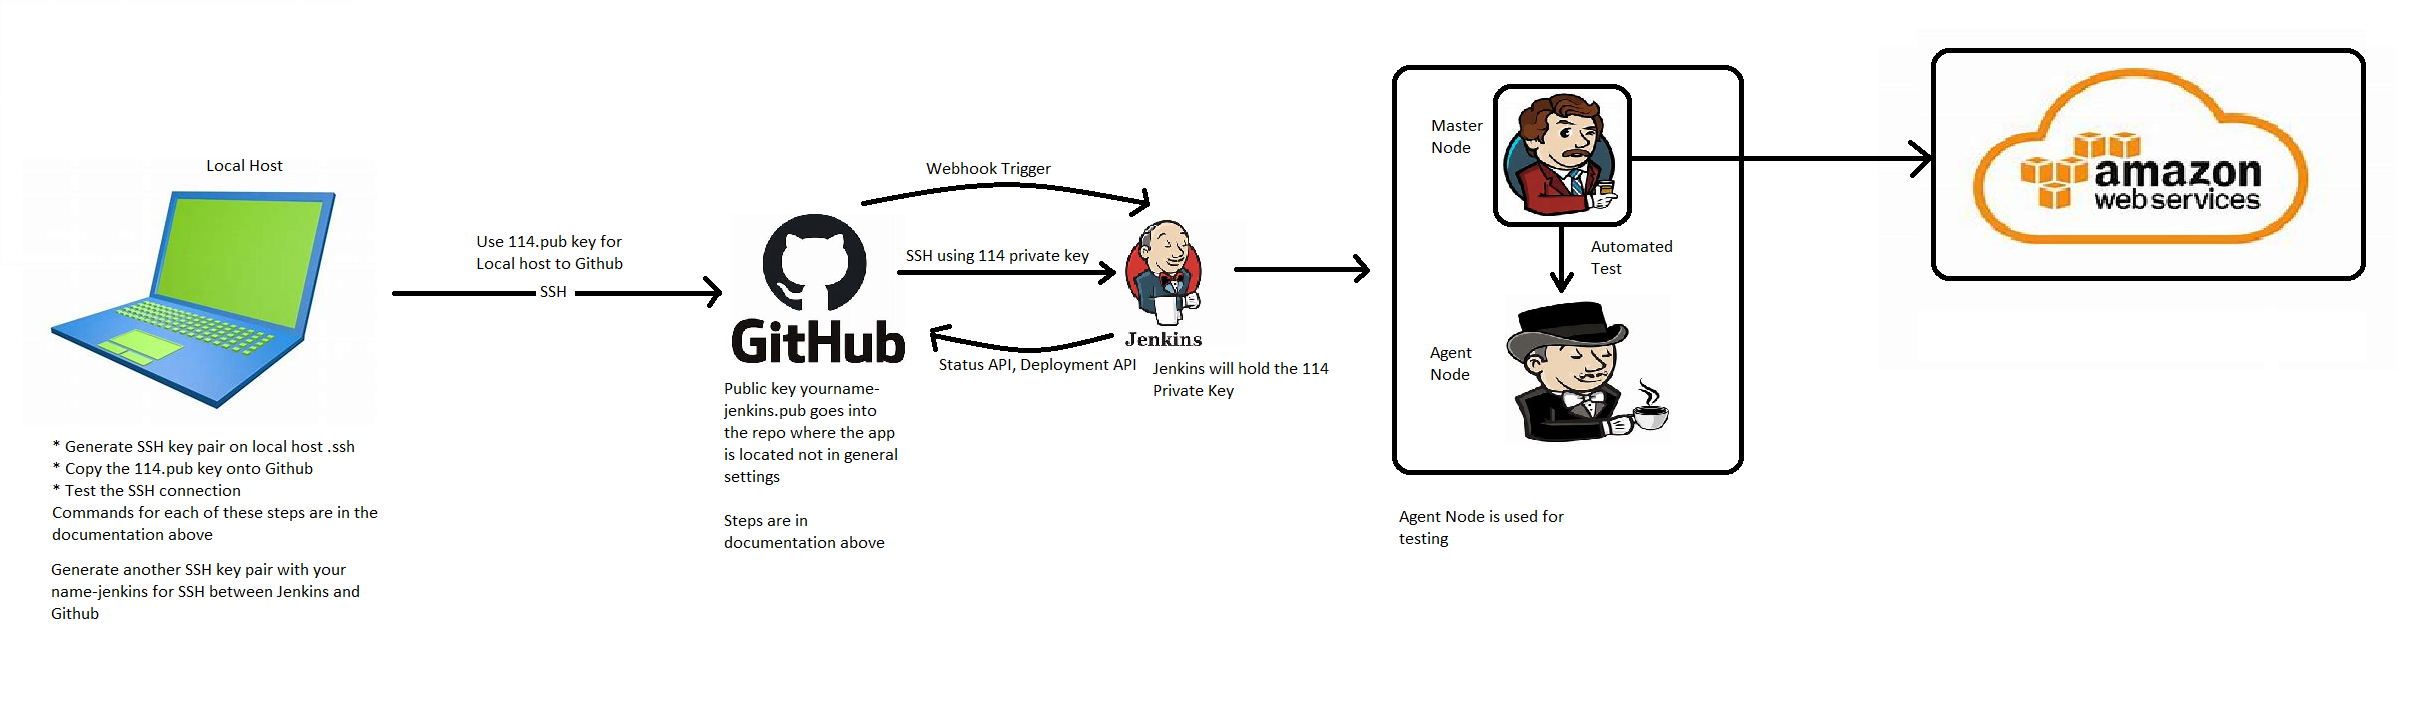
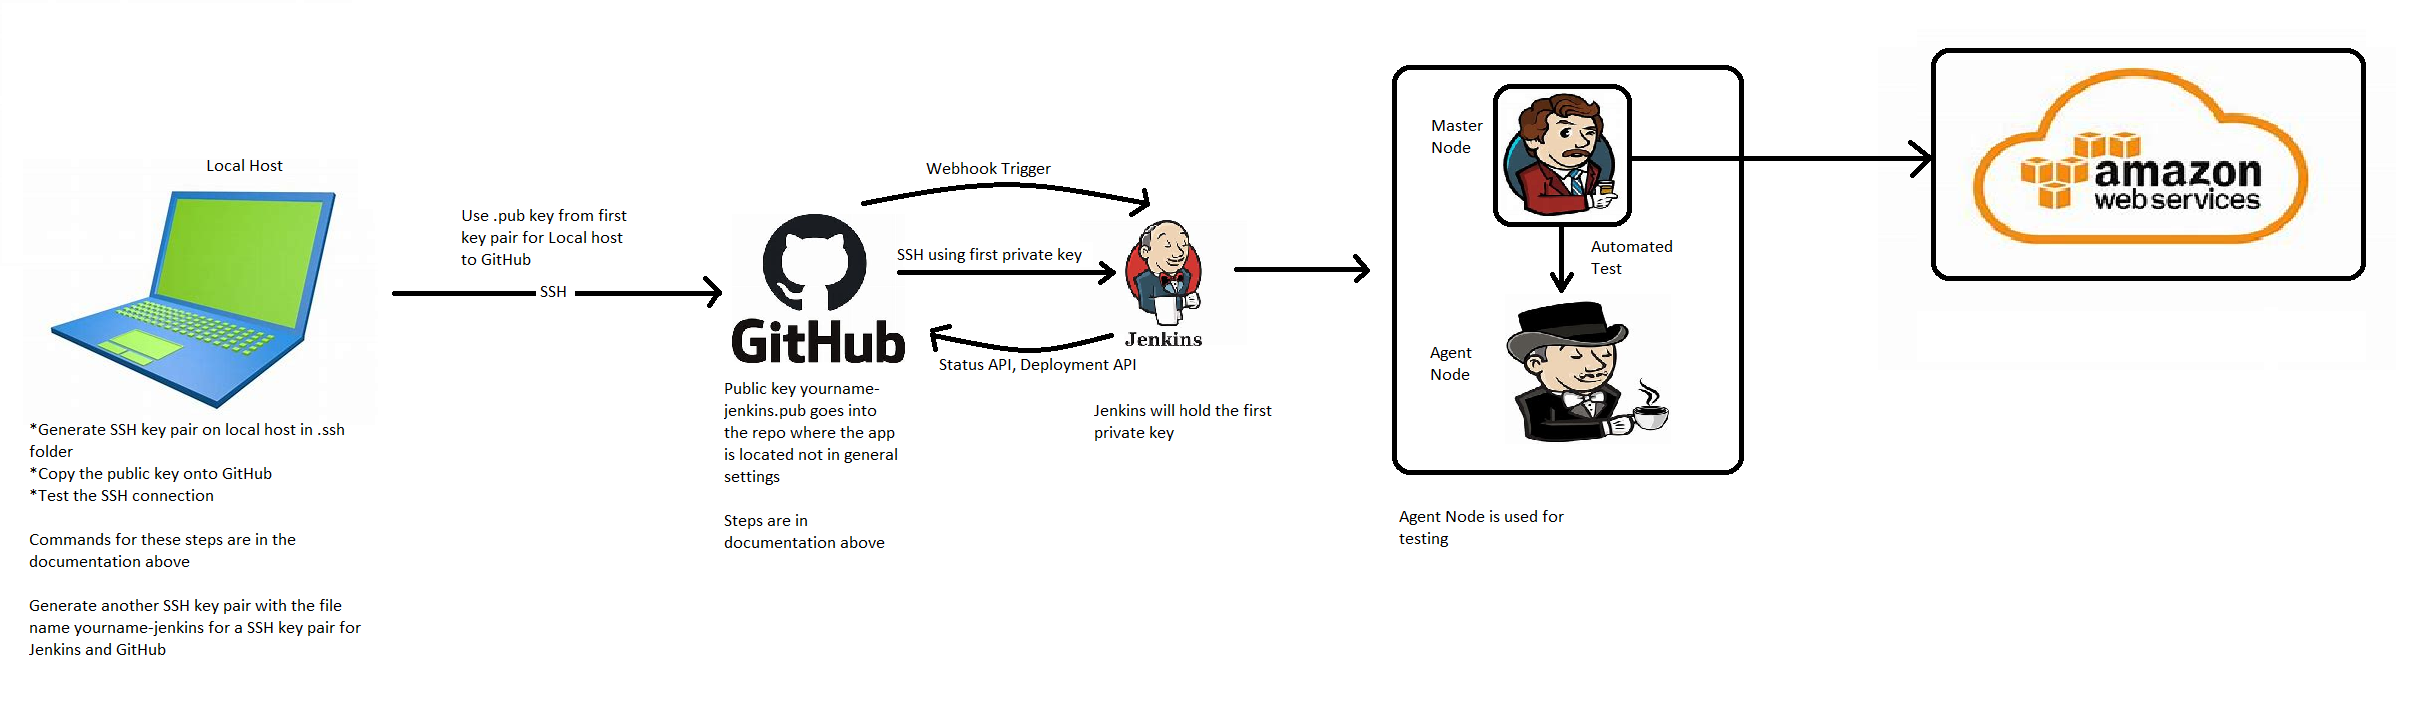
Changed Diagram

diff --git a/README.md b/README.md
@@ -993,12 +993,12 @@ https://docs.github.com/en/authentication/connecting-to-github-with-ssh/adding-a
 - Run the following command
 - `ssh-keygen -t rsa -b 4096 -C "your email you used for github"`
 
-- When prompted, name the file in the way you want, in this case 114
+- When prompted, name the file in the way you want
 
 - Keep pressing enter until you see the keys randomart image
 
 - To show the public key
-- `cat 111.pub` - copy the contents that appear.
+- `cat nameyougave.pub` - copy the contents that appear.
 
 ### Need to copy the 114.pub key to our GitHub
 
@@ -1006,7 +1006,7 @@ https://docs.github.com/en/authentication/connecting-to-github-with-ssh/adding-a
 - Go to settings in the top right of the page
 - Go to SSH and GPG keys
 - Add new SSH key
-- Name the key, in this case 114
+- Name the key
 - Copy the key into the box
 - Save key
 
@@ -1034,12 +1034,12 @@ if that works and you have a README file make a change using `nano README.md`
 
 ### For SSH keys between Jenkins and GitHub
 
-- Generate a new key pair using the steps above, name it akshay-jenkins
+- Generate a new key pair using the steps above, name it `yourname-jenkins`
 - Copy the public key
 - Go to the GitHub repo which contains the app
 - Go to settings (next to insights not the top corner)
 - Go to deploy keys
-- Name it yourname-jenkins
+- Name it `yourname-jenkins`
 - Copy the key into the box
 - Check the allow write access if you want
 - Save the key
